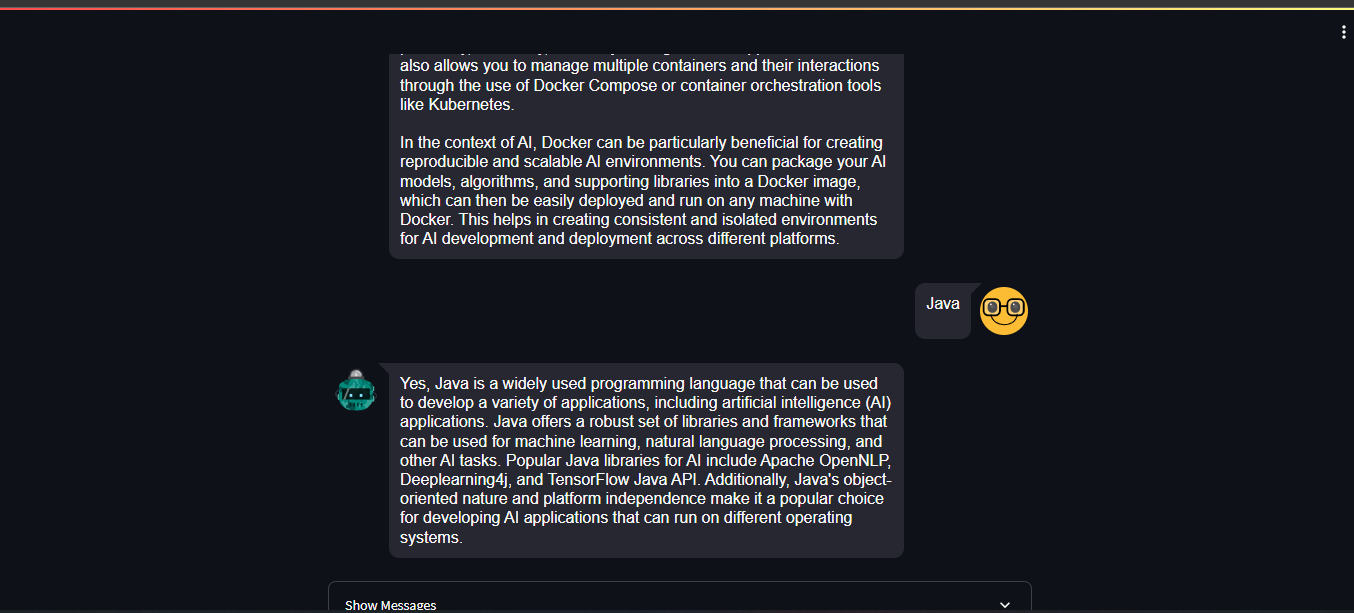
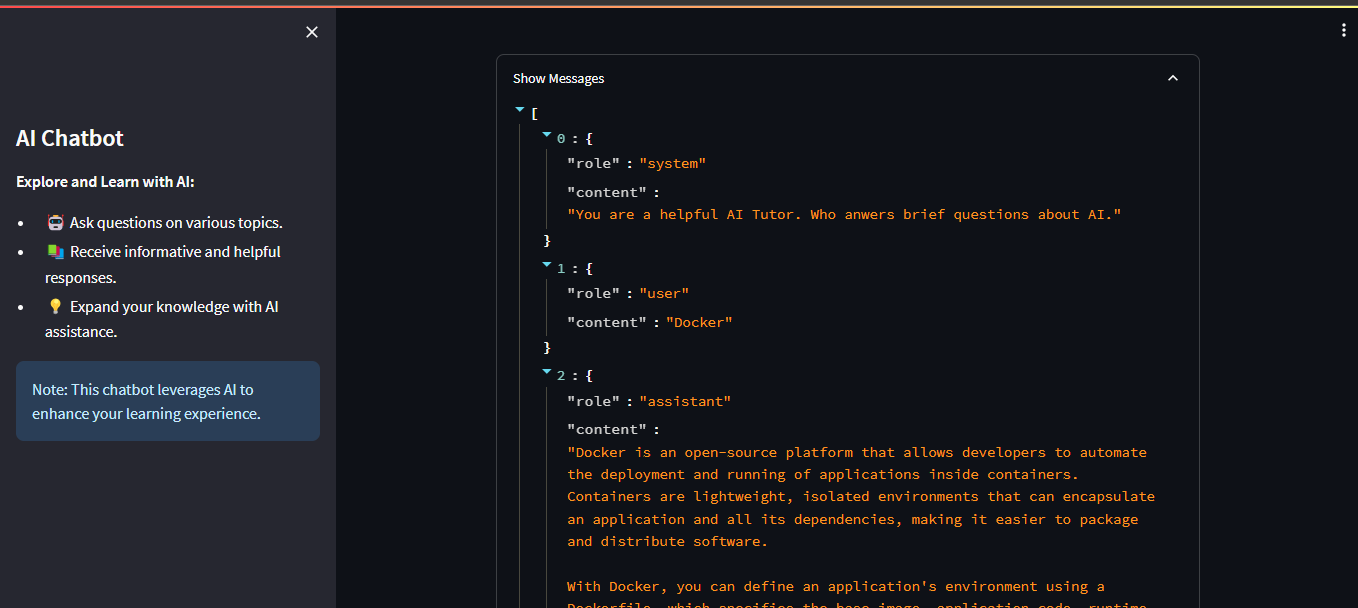
Readme Commit

diff --git a/chatbot.py b/chatbot.py
@@ -8,8 +8,25 @@ import openai
 
 openai.api_key = os.getenv('OPENAI_API_KEY')
 
-st.title("Chatbot")
-st.subheader("AI Tutor:")
+# Set page title and favicon
+st.set_page_config(page_title="AI Chatbot", page_icon=":robot_face:")
+
+# Sidebar header
+with st.sidebar:
+    st.title('AI Chatbot')
+    st.markdown('''
+    **Explore and Learn with AI:**
+
+    - 🤖 Ask questions on various topics.
+    - 📚 Receive informative and helpful responses.
+    - 💡 Expand your knowledge with AI assistance.
+
+    ''')
+    st.info("Note: This chatbot leverages AI to enhance your learning experience.")
+
+
+st.title("AI Chatbot")
+st.subheader("AI Assistance:")
 
 if 'generated' not in st.session_state:
     st.session_state['generated'] = []

diff --git a/README.md b/README.md
@@ -155,14 +155,43 @@ import openai
 
 openai.api_key = os.getenv('OPENAI_API_KEY')
 
-st.title("Chatbot")
-st.subheader("AI Tutor:")
+# Set page title and favicon
+st.set_page_config(page_title="AI Chatbot", page_icon=":robot_face:")
+
+# Sidebar header
+with st.sidebar:
+    st.title('AI Chatbot')
+    st.markdown('''
+    **Explore and Learn with AI:**
+
+    - 🤖 Ask questions on various topics.
+    - 📚 Receive informative and helpful responses.
+    - 💡 Expand your knowledge with AI assistance.
+    ''')
+    st.info("Note: This chatbot leverages AI to enhance your learning experience.")
+
+st.title("AI Chatbot")
+st.subheader("AI Assistance:")
 ```
  - Importing Libraries: This section imports the necessary libraries and modules required for the chatbot application. It imports streamlit for the web application, streamlit_chat to display the chat messages, utils to access utility functions, os for working with the operating system, dotenv for loading environment variables from a file, and openai to interact with the OpenAI API.
 
  - Setting Up OpenAI API Key: It loads the OpenAI API key from the .env file using os.getenv() and sets it as the API key for the openai library.
 
- - Setting Up Streamlit Web Application: It creates the basic layout of the web application using Streamlit. The st.title() and st.subheader() functions set the title and subheader of the web page, respectively.
+ - import streamlit as st: Imports the Streamlit library, which is used to create interactive web applications with Python.
+
+ - st.set_page_config(page_title="AI Chatbot", page_icon=":robot_face:"): Sets the title and favicon (icon displayed on browser tabs) of the web page.
+
+ - with st.sidebar:: Creates a sidebar section on the web page where you can add content that appears on the side.
+
+ - st.title('AI Chatbot'): Adds a title to the sidebar, displaying "AI Chatbot".
+
+ - st.markdown(''' ... '''): Uses Markdown syntax to add formatted text to the sidebar. In this case, it adds a section with bullet points that describe the capabilities of the AI Chatbot.
+
+ - st.info("Note: This chatbot leverages AI to enhance your learning experience."): Displays an informational box at the bottom of the sidebar, providing a note about the chatbot's usage of AI.
+
+The code sets up a visually appealing and informative sidebar for your AI Chatbot application, presenting users with an introduction and key features of the chatbot. The st.set_page_config function adds branding to the web page, making it more identifiable.
+ 
+ - Setting Up Streamlit Web Application: It creates the basic layout of the web application using Streamlit. The st.sidebar() st.title() and st.subheader() functions set the sidebar,title and subheader of the web page, respectively.
 
  ```python
  if 'generated' not in st.session_state:
